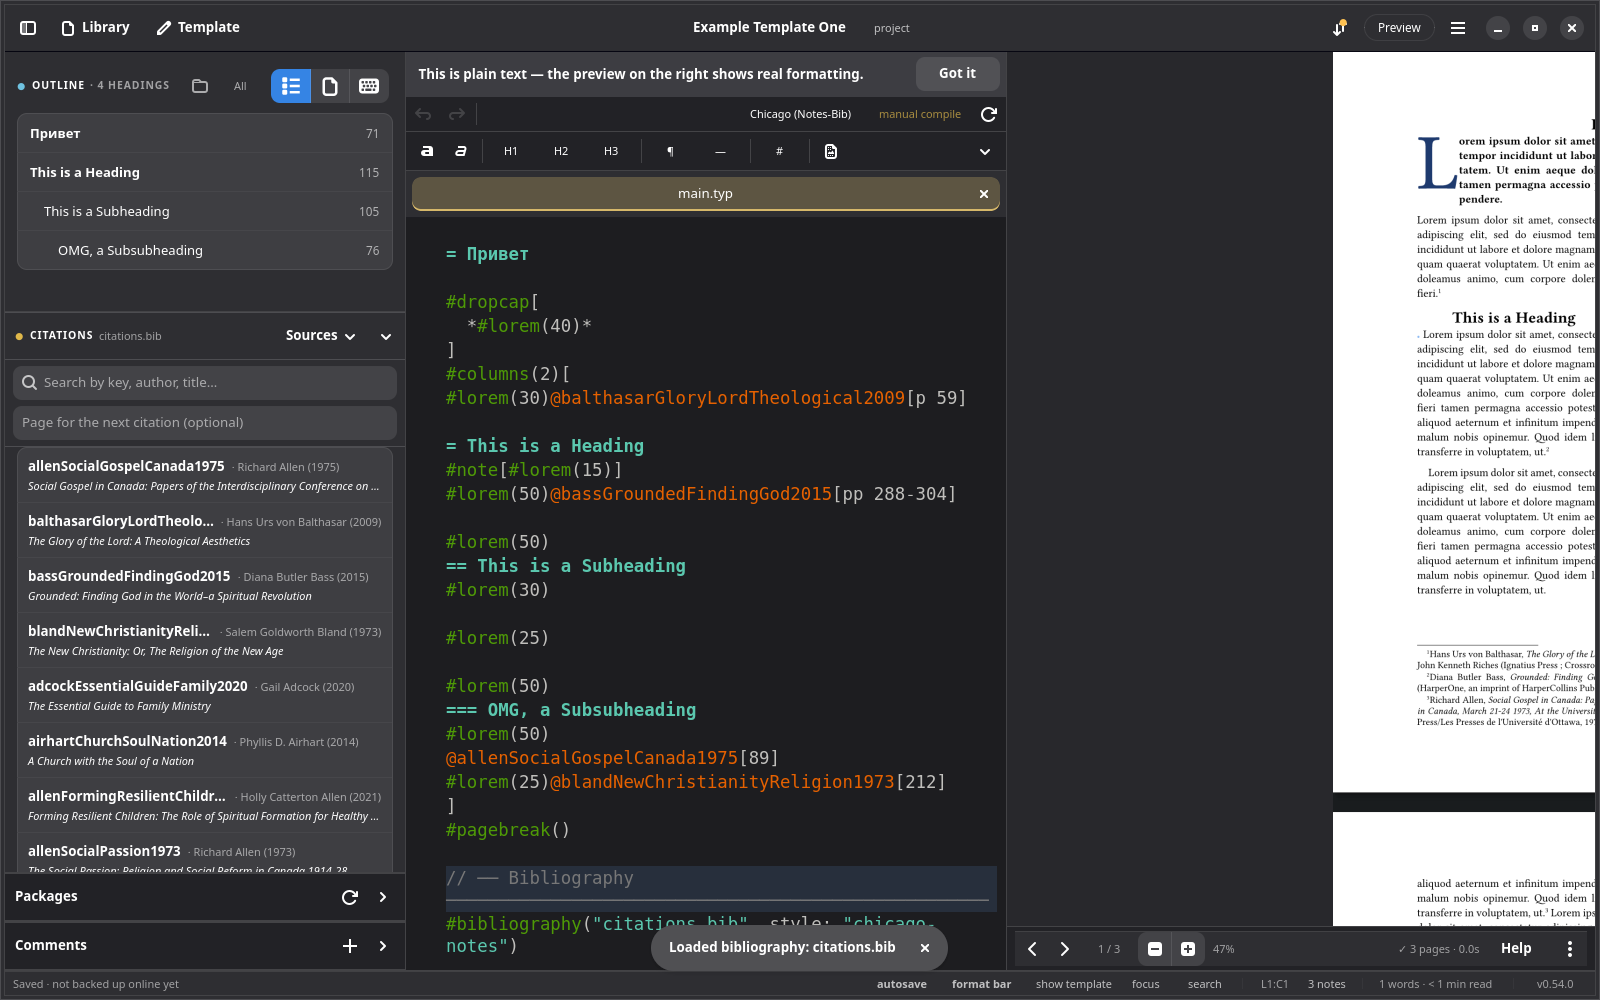
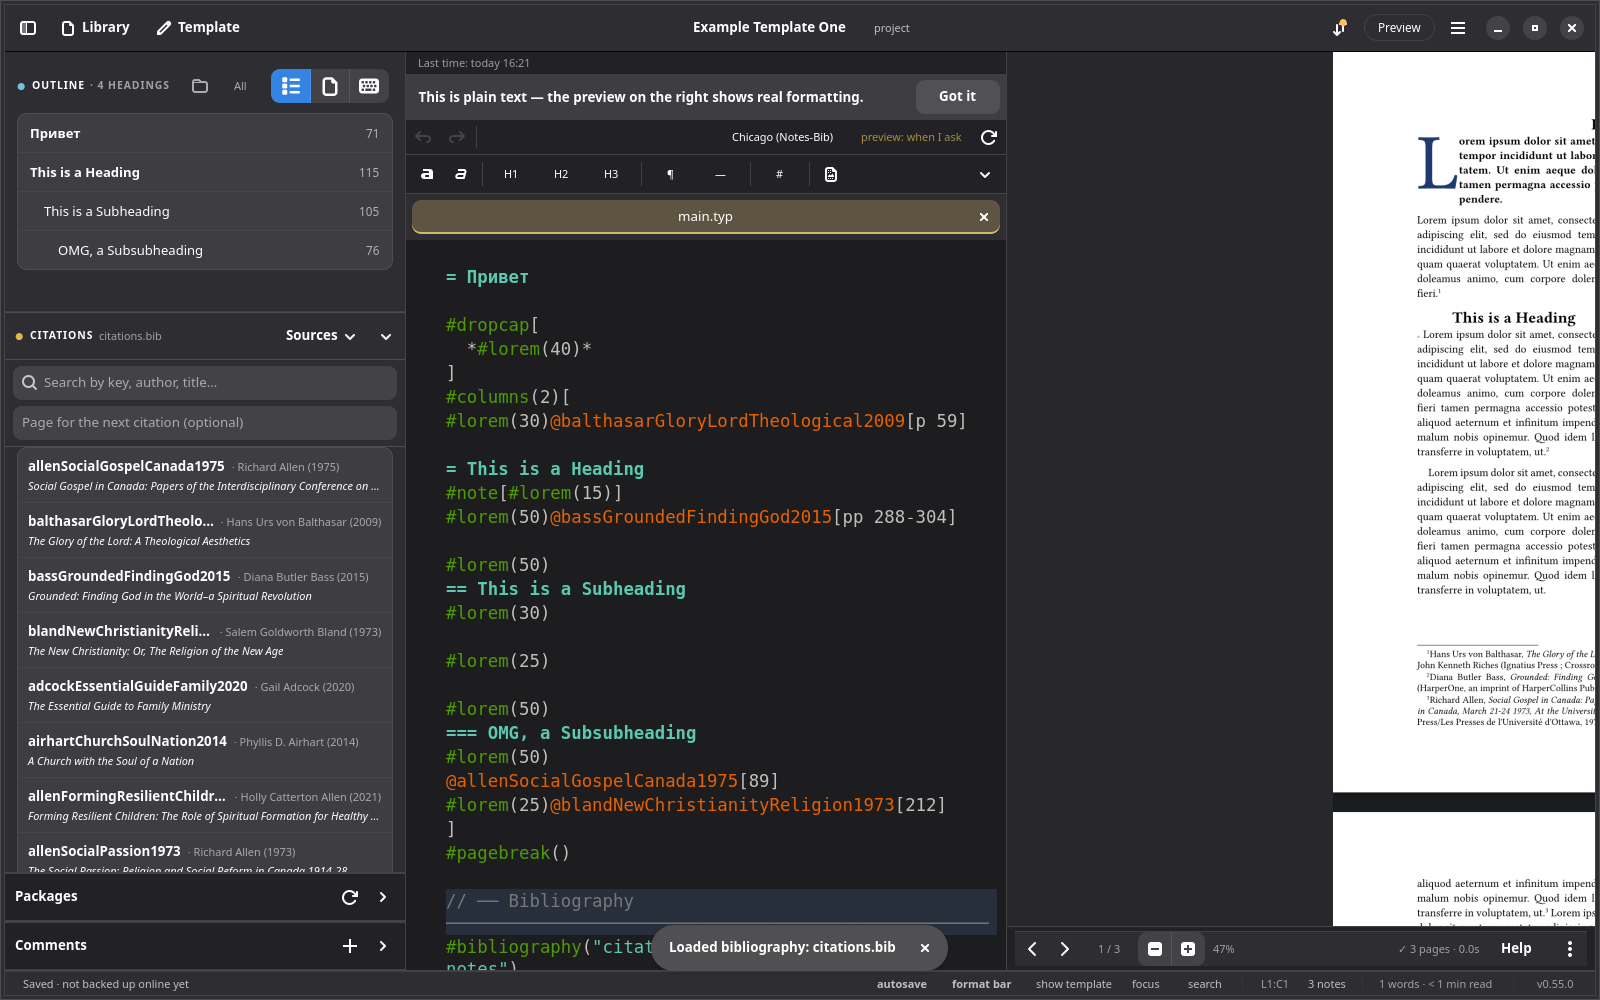
v0.55.0 "Level Ground" — a calmer, more predictable Zerkalo
Claude-Session: https://claude.ai/code/session_01HDNpa7Jk6Fe2bL5dbHKEgT

Changed region(s): [[0.25, 0.031, 0.625, 0.961], [0.0312, 0.961, 0.125, 0.992]]

diff --git a/src/ui/welcome_window.rs b/src/ui/welcome_window.rs
@@ -7,11 +7,12 @@ use gtk4::{Align, Box as GtkBox, Button, Label, Orientation, ScrolledWindow, Sep
 use libadwaita as adw;
 
 const VERSION: &str = env!("CARGO_PKG_VERSION");
-pub const RELEASE_NAME: &str = "True Margin";
+pub const RELEASE_NAME: &str = "Level Ground";
 
 pub struct WelcomeWindow {
     window: adw::Window,
     on_dismissed: Rc<RefCell<Option<Box<dyn Fn()>>>>,
+    on_blank: Rc<RefCell<Option<Box<dyn Fn()>>>>,
 }
 
 impl WelcomeWindow {
@@ -233,6 +234,22 @@ impl WelcomeWindow {
         let spacer = GtkBox::new(Orientation::Horizontal, 0);
         spacer.set_hexpand(true);
         footer.append(&spacer);
+        let on_blank: Rc<RefCell<Option<Box<dyn Fn()>>>> = Rc::new(RefCell::new(None));
+        if is_first_run {
+            let blank_btn = Button::with_label("Start with a blank page");
+            blank_btn.add_css_class("flat");
+            blank_btn.set_tooltip_text(Some(
+                "Skips the choices. You can pick a look, add a title page or set up backup any time from ☰.",
+            ));
+            let (win_b, cb_b) = (window.clone(), on_blank.clone());
+            blank_btn.connect_clicked(move |_| {
+                win_b.close();
+                if let Some(f) = cb_b.borrow().as_ref() {
+                    f();
+                }
+            });
+            footer.append(&blank_btn);
+        }
         let btn_label = if is_first_run { "Get Started" } else { "Close" };
         let ok_btn = Button::with_label(btn_label);
         ok_btn.add_css_class("suggested-action");
@@ -258,10 +275,15 @@ impl WelcomeWindow {
         Self {
             window,
             on_dismissed,
+            on_blank,
         }
     }
 
     /// Called after "Get Started" is clicked (after the window closes).
+    pub fn set_on_blank(&self, f: impl Fn() + 'static) {
+        *self.on_blank.borrow_mut() = Some(Box::new(f));
+    }
+
     pub fn set_on_dismissed(&self, f: impl Fn() + 'static) {
         *self.on_dismissed.borrow_mut() = Some(Box::new(f));
     }

diff --git a/src/ui/app_window/lifecycle.rs b/src/ui/app_window/lifecycle.rs
@@ -32,6 +32,7 @@ pub(super) struct LifecycleCtx {
     /// fires this directly rather than just closing, so a first-time user
     /// lands in document creation instead of a blank window.
     pub(super) menu_new_template_item: gtk4::Button,
+    pub(super) menu_new_item: gtk4::Button,
     pub(super) lsp_client: Rc<RefCell<Option<LspClient>>>,
     pub(super) problems: super::super::problems::Problems,
     pub(super) last_completion_request: Rc<RefCell<Option<u64>>>,
@@ -193,6 +194,7 @@ pub(super) fn wire_startup(ctx: &LifecycleCtx) {
     let win_for_welcome = ctx.window.clone();
     let root_for_welcome = ctx.project_root.clone();
     let new_template_for_welcome = ctx.menu_new_template_item.clone();
+    let new_blank_for_welcome = ctx.menu_new_item.clone();
     let start_tour_after_welcome = ctx.start_tour_after_welcome.clone();
     let editor_for_note = ctx.editor_pane.clone();
     let after_update = ctx.current_config.borrow().comfort.after_update;
@@ -244,6 +246,8 @@ pub(super) fn wire_startup(ctx: &LifecycleCtx) {
                 // that opens is modal, so the tour sits ready underneath and
                 // is simply what the user sees once they finish there
                 // (create a document, or cancel back to the blank editor).
+                let new_blank = new_blank_for_welcome.clone();
+                ww.set_on_blank(move || new_blank.emit_clicked());
                 let new_template = new_template_for_welcome.clone();
                 let start_tour = start_tour_after_welcome.clone();
                 ww.set_on_dismissed(move || {

diff --git a/src/ui/app_window/mod.rs b/src/ui/app_window/mod.rs
@@ -1660,6 +1660,7 @@ impl AppWindow {
             sync_btn: sync_btn.clone(),
             sync_badge: sync_badge.clone(),
             menu_new_template_item: menus.menu_new_template_item.clone(),
+            menu_new_item: menus.menu_new_item.clone(),
             lsp_client: lsp_client.clone(),
             problems: problems.clone(),
             last_completion_request: last_completion_request.clone(),

diff --git a/CHANGELOG.md b/CHANGELOG.md
@@ -3,6 +3,41 @@
 All notable changes to Zerkalo are recorded here.  
 Format follows [Keep a Changelog](https://keepachangelog.com/en/1.1.0/).
 
+## [0.55.0] "Level Ground" — 2026-10-28 — A calmer, more predictable Zerkalo
+
+Zerkalo now does only what you ask, says only what you need, and says it the same way every time. New Settings → Comfort page gathers the individual controls; nothing is an "autism mode" and nothing nags.
+
+### Fixed
+
+- **Ctrl+Shift+P updates the preview; it no longer hides it.** In Manual mode the key most places call "refresh" used to make the preview disappear. It now brings a hidden preview back and updates it.
+- **Ctrl+S and ☰ → Save do the same thing.** Ctrl+S used to write with no safety net and say nothing if the save failed; it now saves the same careful way as the menu, shows the failed-save bar when it can't, and updates the preview in both modes.
+- **Help points at the real backup button** (the two arrows at the top right) instead of ⟳, which updates the preview.
+- **The setup wizard stops coming back.** Closing it with × or Escape now counts as an answer, and its way out says what it does: "Don't ask again — the backup button sets this up any time".
+- **Shortcuts shown on screen follow your keybindings.** About 35 labels, tooltips and Help paragraphs had keys typed in by hand; a test now keeps them honest.
+- **Replace in all files keeps your typing and your undo.** Open documents are changed in the editor as one undo step each instead of being reloaded from disk.
+
+### Changed
+
+- **Quiet while you write.** No toast for an autosave or an automatic backup that worked, and none for "Compiled successfully". A backup that can't get through says so once, not every 12 minutes.
+- **After an update, What's New is a note in the status bar** that waits until you click or close it (Settings → Comfort can open the window instead, or say nothing). Dev builds say nothing.
+- **Newer writing from your online backup asks first.** An open document is no longer replaced under your eyes: what arrived is kept as a saved version, and "Show it" brings it in as one undo step. Settings → Comfort can make this automatic.
+- **Messages stay long enough to read.** Each message's time on screen follows its length (6–20 seconds, longer with a button), and the last 30 can be read again by clicking the "Saved" line at the bottom or Ctrl+K → Recent Messages.
+- **Start-up messages wait their turn** until nothing else is open over the window.
+- **One name for one thing.** Backing up, saved versions and updating the preview are called the same everywhere (see the glossary in `docs/VOICE.md`); labels are in sentence case; switch tooltips say whether the switch is on and what a click does; confirmations offer "Keep it as it is" instead of a bare Cancel.
+- **Problems are underlined in amber, not red,** unless you choose red. Red is for when something is about to be lost.
+- **The status bar's numbers settle.** Line and column and word counts update a moment after you stop typing rather than on every keystroke (or live, or hidden, by choice).
+- **Spelling never marks the word you are still writing.** F7 checks everything now; you can also underline only when you leave a paragraph, or only when asked.
+- **Under reduced movement the preview progress strip is still,** and Zerkalo has its own "Reduce movement" switch. The F1 help bubbles are dark in dark mode, the text cursor can stop blinking, and the error bell is off.
+
+### Added
+
+- **Settings → Comfort** for all of the above, with a "Use the calm defaults" button.
+- **Where you left off:** a quiet line when a document opens — when you last wrote in it and how many words you added — that goes at your first keystroke.
+- **Notes for next time** (opt-in): a short note to yourself kept with each document and shown in that line (Ctrl+K → Note for next time).
+- **Marks your place after a break** (on by default): the cursor's line is briefly tinted when you return after a couple of minutes away.
+- **A plain session clock** (opt-in) in the status bar. It never reminds or interrupts.
+- **Start with a blank page** on the first-run welcome window, skipping the template choices.
+
 ## [0.54.0] "True Margin" — 2026-10-28 — Citation styles that match their manuals
 
 A full audit of every citation style, checked against the style manuals by compiling a real document in each one. Details in `CITATION-STYLE-AUDIT.md`.

diff --git a/RELEASE.md b/RELEASE.md
@@ -1,17 +1,15 @@
-<!-- zerkalo-release: 0.54.0 -->
+<!-- zerkalo-release: 0.55.0 -->
 ### What's new
 
-Citation styles that match their manuals.
+A calmer, more predictable Zerkalo.
 
-**Headings are the right size and weight.** Typst's own bold, enlarged headings showed through every style, so SBL's plain headings, APA's 12-point headings and ASA's roman and italic levels all came out bold. Each style now sets exactly what its manual says, and headings sit on the line grid instead of crowding the text.
+**It does what the label says.** Ctrl+Shift+P updates the preview instead of hiding it. Ctrl+S saves exactly as safely as ☰ → Save, and tells you if a save can't go through. Help points at the real backup button, and every shortcut shown on screen is the one you have set.
 
-**The right citation style behind each name.** Vancouver lists its authors again (the built-in style had dropped them). ASA is formatted as ASA and Harvard as Cite Them Right, where before they borrowed APA and Chicago. SBL and Turabian include the place of publication their manuals still require. A new document titles its reference list as the style does: References, Works Cited, Reference list.
+**It keeps quiet while you write.** No message for an autosave or an automatic backup that worked. An update leaves a small note in the status bar rather than opening a window. Newer writing from your online backup asks before it changes what is on screen. Every message stays long enough to read, and the last thirty can be read again from the "Saved" line at the bottom.
 
-**Choosing a style sets up the page.** Picking a style in the template dialog now also sets margins, line spacing, font size, page-number position and heading numbering to what the style asks for, and every row stays editable. "1.5 Lines" and "Double" now match Word's spacing, and paragraphs are separated by the half-inch indent alone.
+**One name for one thing.** Backing up, saved versions and updating the preview are called the same everywhere. Labels are in sentence case, and a switch's tooltip says whether it is on and what a click will do.
 
-**Per-style details.** MLA gets a centred title, a day-month-year date, "Surname 2" page headers and a centred Works Cited. APA gets the student title page, an abstract on its own page and run-in fourth and fifth levels. SBL gets its all-capitals title page and note layout. IEEE spans the title across both columns and numbers sub-headings A. and 1). GOST drops the trailing dot from section numbers and is set in Russian.
-
-**Page locators follow the style.** The citation panel inserts `@key[12]` for styles that print a bare number and `@key[p. 12]` for APA, Harvard and IEEE.
+**Settings → Comfort** gathers the choices: reduced movement, a steady cursor, a quiet colour for problems, status-bar numbers that settle when you pause, spelling that leaves the word you are still writing alone (F7 checks everything), a "where you left off" line, notes for next time, a mark on your place after a break, and an optional session clock.
 
 ---
 

diff --git a/README.md b/README.md
@@ -42,6 +42,7 @@ raw markup dead-end: a live preview pane always shows the real formatting next t
 | **Typewriter scrolling** | Optional (Settings → Editor); cursor stays fixed at ~45 % from the top of the viewport |
 | **Line spacing** | Settings → Editor → Compact / Normal / Spacious |
 | **High contrast mode** | Settings → Editor → High contrast; forces white-on-black in the editor |
+| **Comfort** | Settings → Comfort: messages that stay until closed, reduced movement, a steady cursor, a quiet colour for problems, status-bar numbers that change when you pause, spelling that leaves the word you are writing alone (F7 checks everything), a "where you left off" line, notes for next time, a mark on your place after a break, an optional session clock, and a choice of what happens after an update or when newer writing arrives from your backup. Nothing nags, and nothing is a mode |
 | **Theme** | System / Light / Dark, set from the hamburger menu — follows libadwaita's colour scheme by default |
 | **Word count** | Live count and reading-time estimate in the status bar; selection shows "N words, M sentences selected". For author-date styles (APA, Chicago author-date, Harvard, MLA…) a "citations in count" toggle adds the words in-text citations print — "(Smith & Jones, 2019)" is four — to every count; off by default |
 | **Word-count goal** | Add `// @goal: 3000` in your file; a progress ring tracks it in the status bar |
